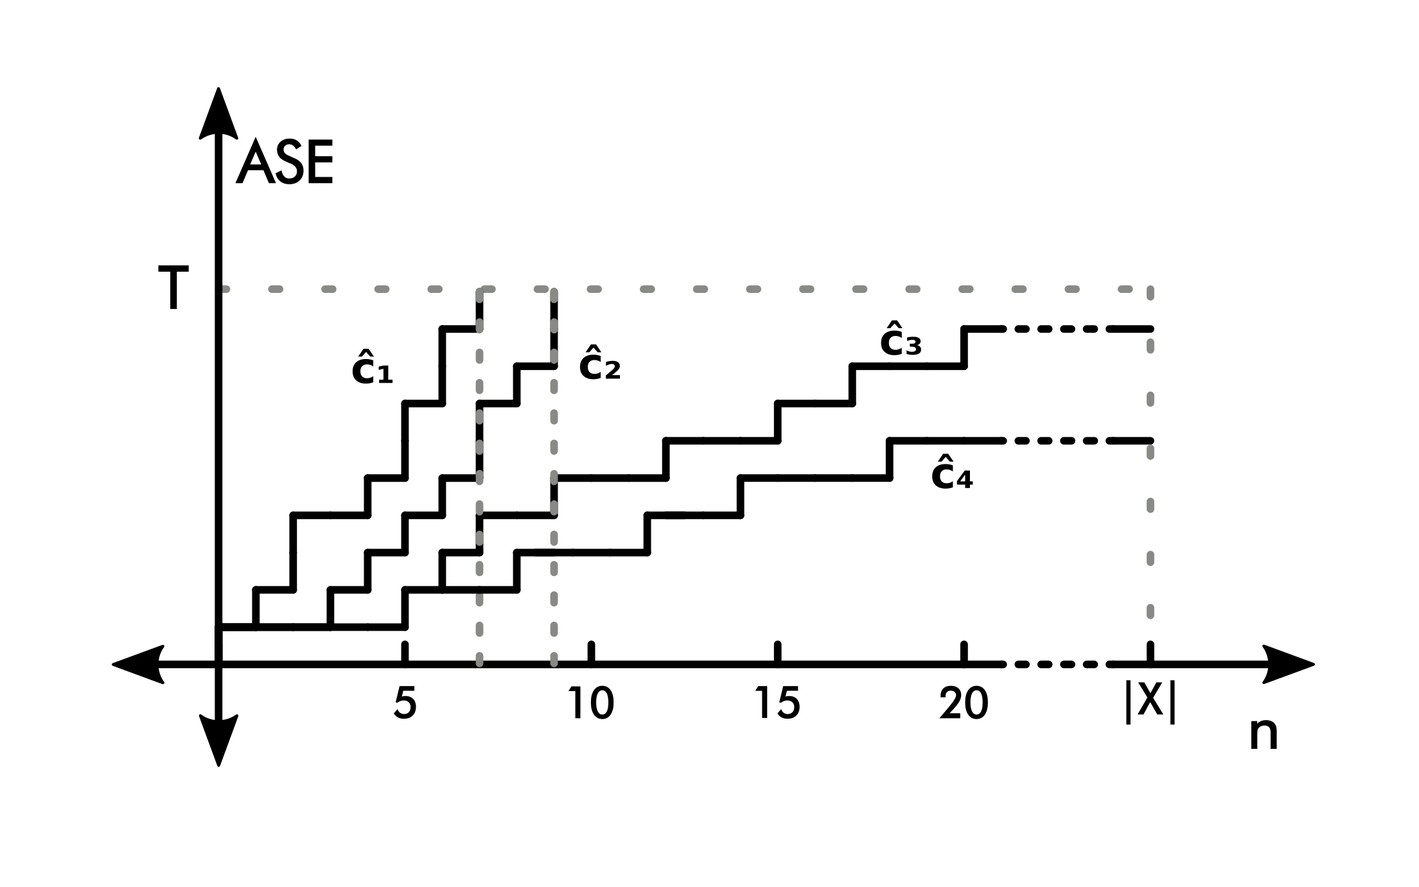
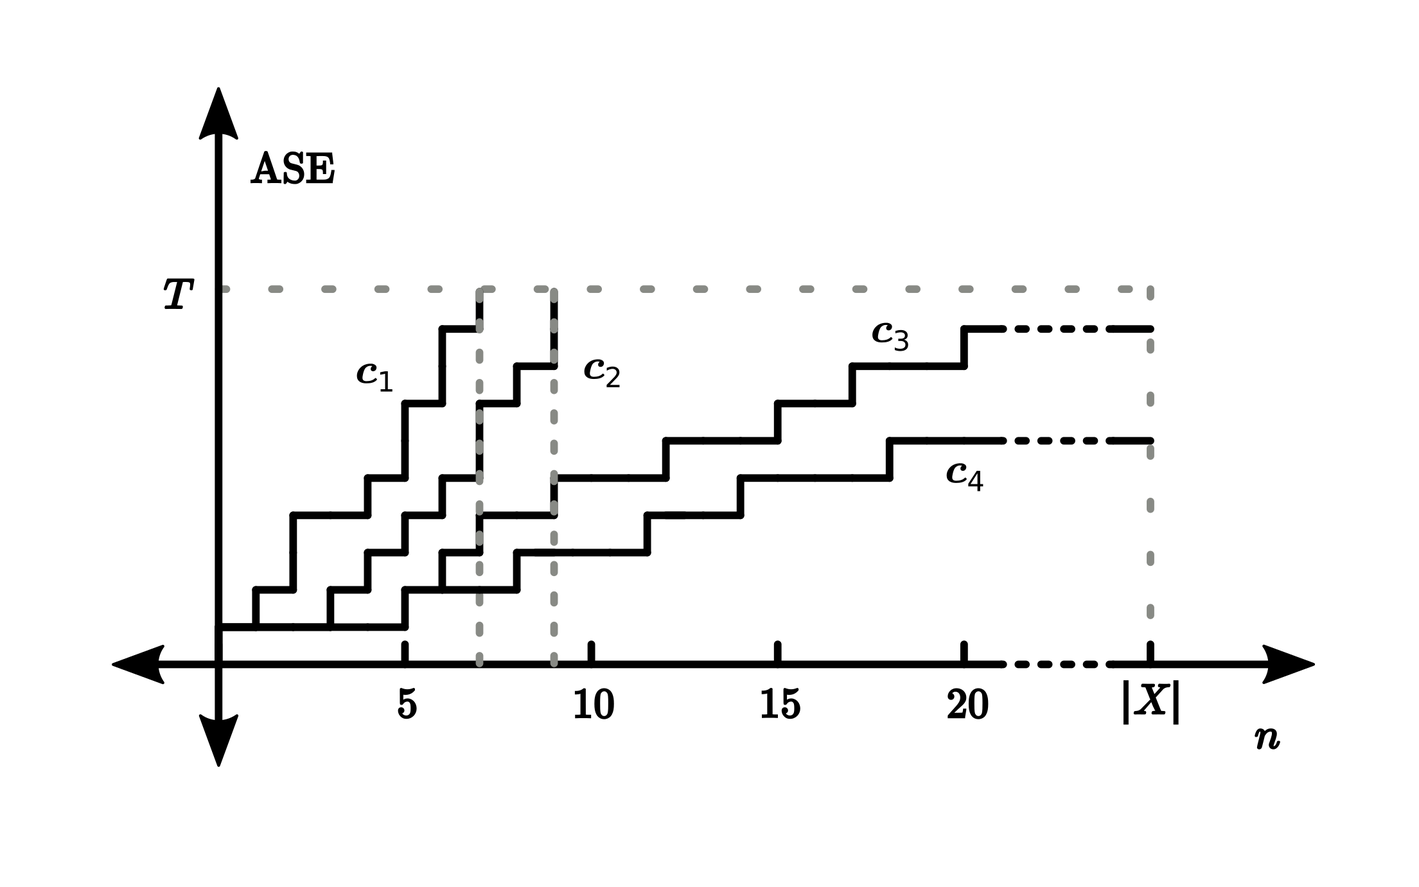
add thesis citations

diff --git a/content/thesis/header.tex b/content/thesis/header.tex
@@ -1,0 +1,22 @@
+\usepackage[letterpaper, margin=1in]{geometry}
+\usepackage{float}
+\usepackage{bm}
+\usepackage{steinmetz}
+\usepackage{xparse,mathtools}
+\usepackage{amsmath}
+\usepackage{setspace}
+\let\origfigure\figure
+\let\endorigfigure\endfigure
+\renewenvironment{figure}[1][2] {
+    \expandafter\origfigure\expandafter[H]
+} {
+    \endorigfigure
+}
+\DeclareMathOperator{\sinc}{sinc}
+\DeclareMathOperator{\rect}{rect}
+\DeclareMathOperator{\cir}{circ}
+\DeclareMathOperator{\jinc}{jinc}
+\DeclareMathOperator{\diag}{diag}
+\DeclareMathOperator{\E}{E}
+
+\doublespacing

diff --git a/content/thesis/intro.md b/content/thesis/intro.md
@@ -31,12 +31,13 @@ In the next section, I highlight some classical and/or popular contemporary imag
 
 ### A Comment on Notation
 
-This document contains many types of variables which can represent transform parameters, placeholder variables inside optimizations, 1D vectors of parameters and 2D images.   I try to follow these guidelines for easier reading:
+This document contains many types of variables which can represent transform parameters, <!-- placeholder variables inside optimizations, --> 1D vectors of parameters and 2D images.   I try to follow these guidelines for easier reading:
 
 * bold for variables which represent 1D vectors.  For example $\bm{x}$ is a coordinate vector representing position within an image
-* subscript 0 for ground truth parameters of $f$.  For example $s_0$ and $\theta_0$ are parameters controlling scaling and rotation
-* hat $\,\hat{}\,$ for placeholder variables in maximization or minimization problems. For example $\hat{\theta}$ may represent the current value under test in an iterative algorithm searching for $\theta_0$
-* superscript $*$ for final parameter estimates obtained by registration methods. For example $\theta^*$ is a best estimate for the true $\theta_0$
+* superscript $*$ for ground truth parameters of $f$.  For example $s^*$ and $\theta^*$ are parameters controlling scaling and rotation
+* hat $\,\hat{}\,$ for algorithmic estimates of ground truth parameters. For example $\hat{\theta}$ may represent the best estimate for $\theta^*$ found by an algorithm
+<!-- * hat $\,\hat{}\,$ for placeholder variables in maximization or minimization problems. For example $\hat{\theta}$ may represent the current value under test in an iterative algorithm searching for $\theta_0$ -->
+<!-- * superscript $*$ for final parameter estimates obtained by registration methods. For example $\theta^*$ is a best estimate for the true $\theta_0$ -->
 
 # Area based Registration
 
@@ -47,57 +48,63 @@ This simplicity can sometimes come at a performance cost in certain situations, 
 ### Correlation-like Methods
 
 ##### Cross Correlation
-The most straightforward of all methods, direct correlation only works when $f$ is a simple linear translation, $f(\bm{x}) = \bm{x} - \bm{c}_0$.
-
-$$
-f^* = \arg \max_{\hat{f} \in F} \frac{\sum_{\bm{x} \in X} i_1(\bm{x})i_2(\hat{f}(\bm{x}))}{\sqrt{\sum_{\bm{x} \in X} i_1(\bm{x})^2}}
-$$
-
-where $F$ is the set of all linear translations.
-
-Stated more simply
-
-$$
-\bm{c}^* = \arg \max_{\hat{\bm{c}}} \frac{\sum_{\bm{x} \in X} i_1(x)i_2(\bm{x} - \hat{\bm{c}})}{\sqrt{\sum_{\bm{x} \in X} i_1(\bm{x})^2}}
-$$
+The most straightforward of all methods, direct correlation, is conceptually simple and works for many classes of transformations.
 
 Note that the normalization here is crucial so that the intensities of $i_1$ and $i_2$ do not influence the maximum.  We call this measure normalized cross correlation (NCC). [^3]
 
-<!-- $$ f^* = \arg \max_{\hat{f}} \sum_x i_1(x)i_2(\hat{f}(x)) = \arg \min_{\hat{f}} \sum_x e(x)^2 $$ --> 
+<!-- only works when $f$ is a simple linear translation, $f(\bm{x}) = \bm{x} - \bm{c}^*$. -->
 
-In practice, cross correlation is still successful in the presence of slight rotation or scaling.
+$$
+\begin{aligned}
+\hat{f} &= \arg \max_{f \in F} \text{NCC}(i_1, i_2(f)) \\
+&= \arg \max_{f \in F} \frac{\sum_{\bm{x} \in X} i_1(\bm{x})i_2(f(\bm{x}))}{\sqrt{\sum_{\bm{x} \in X} i_1(\bm{x})^2}}
+\end{aligned}
+$$
+
+where $F$ is the set of all linear translations.  Practically, the time required to search the space of all possible transformations for a given application makes this approach infeasible, so $F$ is often restricted to translations.
+
+$$
+\hat{c} = \arg \max_{\bm{c}} \frac{\sum_{\bm{x} \in X} i_1(\bm{x})i_2(\bm{x} - \bm{c})}{\sqrt{\sum_{\bm{x} \in X} i_1(\bm{x})^2}}
+$$
+
+
+<!-- $$ f^* = \arg \max_{\hat{f}} \sum_x i_1(x)i_2(\hat{f}(x)) = \arg \min_{\hat{f}} \sum_x e(x)^2 $$ --> 
 
 Related similarity measures which are sometimes used in place of normalized cross correlation are sum of squared error (SSE)
 
 $$
-\sum_{\bm{x} \in X} (i_1(\bm{x}) - i_2(\bm{x} - \hat{\bm{c}}))^2
+\text{SSE}(i_1, i_2(f)) = \sum_{\bm{x} \in X} (i_1(\bm{x}) - i_2(f(\bm{x})))^2
 $$
 
 and correlation coefficient
 
 $$
-\frac{\text{cov}(i_1, i_2)}{\sigma_1 \sigma_2} = \frac{\sum_{\bm{x} \in X} (i_1(\bm{x}) - \mu_1)(i_2(\bm{x} - \hat{\bm{c}}) - \mu_2)}{\sqrt{\sum_{\bm{x} \in X} (i_1(\bm{x}) - \mu_1)^2 \sum_{\bm{x} \in X}(i_2(\bm{x} - \hat{\bm{c}}) - \mu_2)^2}}
+\text{Corr}(i_1, i_2(f)) = \frac{\text{cov}(i_1, i_2(f))}{\sigma_1 \sigma_2} = \frac{\sum_{\bm{x} \in X} (i_1(\bm{x}) - \mu_1)(i_2(f(\bm{x})) - \mu_2)}{\sqrt{\sum_{\bm{x} \in X} (i_1(\bm{x}) - \mu_1)^2 \sum_{\bm{x} \in X}(i_2(f(\bm{x})) - \mu_2)^2}}
 $$
 
-where $\mu_1$ and $\mu_2$ are the means of $i_1$ and $i_2$ in $X$.
+where $\mu_1$, $\mu_2$, $\sigma_1$, $\sigma_2$ are the means and variances of $i_1$ and $i_2$ over $X$.
+
+While cross correlation methods are very old, they continue to see widespread use because of ease of implementation in hardware (NCC can be efficiently implemented using multiply-accumulate hardware) and because limiting $f$ to translations isn't significantly restrictive for many scenarios.
+
+In practice though, cross correlation is still successful in the presence of slight rotation, scaling or even non-affine transformation. <!-- need to find citation -->
 
 ##### Generalized Iterative Cross Correlation
 
 ##### Selective Similary Detection Algorithm (SSDA)
 
-In standard correlation methods, the sum over $X$ for each candidate $\hat{f}$ must be computed in full before a maximum is found.  Barnea, Silverman [^4] propose a class alternative schemes which greatly improve computation time in two ways.  The paper calls these algorithms selective similarity detection algorithms (SSDAs), of which one is presented here.
+In standard correlation methods, the sum over $X$ for each candidate $f$ must be computed in full before a maximum is found.  Barnea, Silverman [^4] propose a class alternative schemes which greatly improve computation time in two ways.  The paper calls these algorithms selective similarity detection algorithms (SSDAs), of which one is presented here.
 
 First, the paper uses absolute sum of errors (ASE) as a similarity measure, which requires no costly multiplications unlike NCC or SSE.
 
 $$
-\sum_{\bm{x} \in X} |i_1(\bm{x}) - i_2(\bm{x} - \hat{\bm{c}})|
+ASE(i_1, i_2(f)) = \sum_{\bm{x} \in X} |i_1(\bm{x}) - i_2(\bm{x} - \bm{c})|
 $$
 
-The second optimization uses early stopping and requires that the above sum over $X$ be implemented sequentially (e.g. as an iterative software loop).  For a particular candidate $\hat{\bm{c}}$, the current value of the in-progress ASE is compared to a threshold parameter after each iteration.  If the ASE surpasses this threshold, the number of iterations is recorded and the algorithm moves on to the next candidate.  If an candidate computation never exceeds $T$, then the final ASE is recorded instead.
+The second optimization uses early stopping and requires that the sum over $X$ be implemented sequentially (e.g. as an iterative software loop).  For a particular candidate $\bm{c}$, the current value of the sum is compared to a threshold parameter after each iteration.  If the ASE surpasses this threshold, the number of iterations is recorded and the algorithm moves on to the next candidate.  If an candidate computation never exceeds $T$, then the final ASE is recorded instead.
 
 Finally, the candidate with the lowest ASE is selected.  If all candidates surpassed the threshold, then the candidate with the most number of iterations before passing the threshold is selected.
 
-![Error accumulation curves for candidates $\hat{\bm{c}}_1$, $\hat{\bm{c}}_2$, $\hat{\bm{c}}_3$ and $\hat{\bm{c}}_4$.  Error computation for $\hat{\bm{c}}_1$ and $\hat{\bm{c}}_2$ terminated early at 7 and 9 iterations.  $\hat{\bm{c}}_4$ is the best estimate for offset, followed by $\hat{\bm{c}}_3$, $\hat{\bm{c}}_2$ and $\hat{\bm{c}}_1$.](ssda.png)
+![Error accumulation curves for candidates $\bm{c}_1$, $\bm{c}_2$, $\bm{c}_3$ and $\bm{c}_4$.  Error computation for $\bm{c}_1$ and $\bm{c}_2$ terminated early at 7 and 9 iterations.  $\bm{c}_4$ is the best estimate for offset, followed by $\bm{c}_3$, $\bm{c}_2$ and $\bm{c}_1$.](ssda.png)
 
 This algorithm offers potentially orders of magnitude speed improvements over direct cross-correlation because of early stopping, but requires selection of parameter $T$.  A choice of $T$ too high limits efficiency gains while a choice of $T$ too low can lead to suboptimal results.
 
@@ -113,19 +120,19 @@ Phase correlation was originally proposed for registering linearly translated im
 Computing the cross-power spectral density (CPSD) we can directly obtain this complex exponential.
 
 $$
-i_2(\bm{x}) = i_1(\bm{x} - \bm{c}_0)
+i_2(\bm{x}) = i_1(\bm{x} - \bm{c}^*)
 $$
 
 $$
 CPSD(i_1, i_2)(\bm{\omega}) = \frac{I_1(\bm{\omega}) \overline{I_2(\bm{\omega})}}{|I_1(\bm{\omega}) \overline{I_2(\bm{\omega})}|} =
-\frac{I_1(\bm{\omega}) \overline{I_1(\bm{\omega}) e^{-j \langle \bm{\omega}, \bm{c}_0 \rangle}}}{|I_1(\bm{\omega}) \overline{I_1(\bm{\omega}) e^{-j \langle \bm{\omega}, \bm{c}_0 \rangle}}|} = e^{j \langle \bm{\omega},  \bm{c}_0 \rangle}
+\frac{I_1(\bm{\omega}) \overline{I_1(\bm{\omega}) e^{-j \langle \bm{\omega}, \bm{c}^* \rangle}}}{|I_1(\bm{\omega}) \overline{I_1(\bm{\omega}) e^{-j \langle \bm{\omega}, \bm{c}^* \rangle}}|} = e^{j \langle \bm{\omega},  \bm{c}^* \rangle}
 $$
 
 Where $I_1$ and $I_2$ are the Fourier transforms of $i_1$ and $i_2$.  The final estimate for $\bm{c}_0$ is obtained by a final inverse Fourier transform of the CPSD, yielding a delta at location $\bm{c}_0$.
 
 $$
-PC(i_1, i_2)(\bm{x}) = \mathcal{F}^{-1}\left[ CPSD(i_1, i_2) \right](\bm{x}) = \delta(\bm{x} - \bm{c}_0) \\
-\bm{c}^* = \arg \max_{\bm{x}} PC(i_1, i_2)(\bm{x})
+PC(i_1, i_2)(\bm{x}) = \mathcal{F}^{-1}\left[ CPSD(i_1, i_2) \right](\bm{x}) = \delta(\bm{x} - \bm{c}^*) \\
+\hat{c} = \arg \max_{\bm{x}} PC(i_1, i_2)(\bm{x})
 $$
 
 An important consideration here is that the Fourier Shift theorem only holds exactly when translation is circular.  In practice, the phase correlation method still works if the region of overlap is sufficiently large.  Foroosh, Zerubia, Berthod [^7] propose a prefilter which can be applied to both images before phase correlation to reduce these effects.
@@ -137,21 +144,21 @@ De Castro, Morandi [^5] introduced an extension of the phase correlation method 
 Let $i_2$ be a translated and rotated copy of $i_1$.  Then
 
 $$
-i_2(\bm{x}) = i_1(R_0 (\bm{x} - \bm{c_0}))
+i_2(\bm{x}) = i_1(R_{\theta^*} (\bm{x} - \bm{c^*}))
 $$
 
 where 
 
 $$
-R_0 = \begin{bmatrix} \cos \theta_0 & - \sin \theta_0 \\ \sin \theta_0 & \cos \theta_0 \end{bmatrix}
+R_{\theta^*} = \begin{bmatrix} \cos \theta^* & - \sin \theta^* \\ \sin \theta^* & \cos \theta^* \end{bmatrix}
 $$
 
-is a rotation operator of angle $\theta_0$.
+is a rotation operator of angle $\theta^*$.
 
-From the Fourier shift theorem, we know that a shift by $\bm{c}_0$ in the spatial domain results in a multiplication by a complex exponential in the frequency domain.  Additionally, the Fourier rotation theorem tells us that a rotation in the spatial domain is a rotation by the same angle in the frequency domain.  Therefore, the relation between $I_1$ and $I_2$ can be written
+From the Fourier shift theorem, we know that a shift by $\bm{c}^*$ in the spatial domain results in a multiplication by a complex exponential in the frequency domain.  Additionally, the Fourier rotation theorem tells us that a rotation in the spatial domain is a rotation by the same angle in the frequency domain.  Therefore, the relation between $I_1$ and $I_2$ can be written
 
 $$
-I_2(\bm{\omega}) = e^{-j \langle \bm{\omega}, \bm{c}_0 \rangle} I_1(R_0 \bm{\omega})
+I_2(\bm{\omega}) = e^{-j \langle \bm{\omega}, \bm{c}^* \rangle} I_1(R_{\theta^*} \bm{\omega})
 $$
 
 <!-- $$ -->
@@ -160,26 +167,26 @@ $$
 <!-- \frac{I_1(\omega) \overline{I_1(R_{\theta - \hat{\theta}} \omega)}}{|I_1(\omega) \overline{I_1(R_{\theta - \hat{\theta}} \omega)}|} = -->
 <!-- $$ -->
 
-To find $\theta_0$, the authors consider the expression
+To find $\theta^*$, the authors consider the expression
 
 $$
-\mathcal{F}^{-1} \left[ \frac{I_2(\bm{\omega})}{I_1(R_{\hat{\theta}} \bm{\omega})} \right]
+\mathcal{F}^{-1} \left[ \frac{I_2(\bm{\omega})}{I_1(R_{\theta} \bm{\omega})} \right]
 $$
 
-When $\hat{\theta} = \theta_0$, we get
+When $\theta = \theta^*$, we get
 
 $$
-\mathcal{F}^{-1} \left[ \frac{I_2(\bm{\omega})}{I_1(R_{\hat{\theta}} \bm{\omega})} \right] =
-\mathcal{F}^{-1} \left[ \frac{e^{-j \langle \bm{\omega}, \bm{c}_0 \rangle}I_1(R_0\bm{\omega})}{I_1(R_0 \bm{\omega})} \right]  = \mathcal{F}^{-1} \left[ e^{-j \langle \bm{\omega}, \bm{c}_0 \rangle} \right] = \delta(\bm{x} - \bm{c}_0)
+\mathcal{F}^{-1} \left[ \frac{I_2(\bm{\omega})}{I_1(R_{\theta} \bm{\omega})} \right] =
+\mathcal{F}^{-1} \left[ \frac{e^{-j \langle \bm{\omega}, \bm{c}^* \rangle}I_1(R_{\theta^*}\bm{\omega})}{I_1(R_{\theta^*} \bm{\omega})} \right]  = \mathcal{F}^{-1} \left[ e^{-j \langle \bm{\omega}, \bm{c}^* \rangle} \right] = \delta(\bm{x} - \bm{c}^*)
 $$
 
-By testing a range of values for $\hat{\theta}$ for which results in the closest to an impulse in the above expression, an approximate for the true $\theta_0$ can be found.
+By testing a range of values for $\theta$ for which results in the closest to an impulse in the above expression, an approximate for the true $\theta^*$ can be found.
 
 Formally, this is the minimization problem
 
 $$
-\theta^* = \arg \min_{\hat{\theta}} \left\Vert \mathcal{F}^{-1} \left[ 
-\frac{I_2(\bm{\omega})}{I_1(R_{\hat{\theta}}\bm{\omega})}
+\hat{\theta} = \arg \min_{\theta} \left\Vert \mathcal{F}^{-1} \left[ 
+\frac{I_2(\bm{\omega})}{I_1(R_{\theta}\bm{\omega})}
 \right] \right\Vert_N
 $$
 
@@ -189,13 +196,13 @@ $$
 \left\Vert f \right\Vert_N = \left\Vert f - \delta(\bm{x} - \arg \max_{\hat{\bm{x}}} f(\hat{\bm{x}})) \right\Vert_2
 $$
 
-When $\theta^*$ has been found, the offset can be obtained directly from the impulse function
+When $\hat{\theta}$ has been found, the offset can be obtained directly from the impulse function
 
 $$
-\bm{c}^* = \arg \max_\bm{x} \mathcal{F}^{-1} \left[ \frac{I_2(\bm{\omega})}{I_1(R_{\theta^*} \bm{\omega})} \right](\bm{x})
+\hat{\bm{c}} = \arg \max_\bm{x} \mathcal{F}^{-1} \left[ \frac{I_2(\bm{\omega})}{I_1(R_{\hat{\theta}} \bm{\omega})} \right](\bm{x})
 $$
 
-An important note here is that the denominator $I_1(R_{\theta^*} \bm{\omega})$ must be evaluated using interpolation, as $R_{\theta^*} \bm{\omega}$ will not coincide with the sample nodes of $I_1$ in general.
+Note that the denominator $I_1(R_{\hat{\theta}} \bm{\omega})$ must be evaluated using interpolation, as $R_{\hat{\theta}} \bm{\omega}$ will not coincide with the sample nodes of $I_1$ in general.
 
 <!-- FIXME author somehow use window to eliminate edge effects? -->
 
@@ -208,7 +215,7 @@ An important note here is that the denominator $I_1(R_{\theta^*} \bm{\omega})$ m
 Phase correlation in its original form is an elegant method of registering translated images.  The method introduced by De Castro and Morandi provides a way to detect and correct for rotation in images before applying phase correlation.  However, another common transformation in imaging systems is scaling, which can occur when the target scene moves closer to the imaging device or if the imager has zoom capabilities.  Like rotation, scaling by a factor $s_0$ can also be written as a matrix operator like so
 
 $$
-S_{s_0} = \begin{bmatrix}s_0 & 0 \\ 0 & s_0\end{bmatrix}
+S_{s^*} = \begin{bmatrix}s^* & 0 \\ 0 & s^*\end{bmatrix}
 $$
 
 Sarvaiya, Patnaik, Kothari [^8] introduced a new method which is capable of registering images that have been translated, rotated and scaled.  They make use of the Fourier scale, Fourier shift and Fourier rotation properties and also the Log-Polar transform (also known as Fourier-Mellin transform), where rotation and scaling in the original domain manifest as translation in the Log-Polar domain.  Their approach is broken into two applications of the phase correlation method, where the first application is used to recover scale and rotation, and the second, translation.
@@ -216,20 +223,20 @@ Sarvaiya, Patnaik, Kothari [^8] introduced a new method which is capable of regi
 If $i_2$ is a scaled, rotated and shifted copy of $i_1$,
 
 $$
-i_2(\bm{x}) = i_1(R_0 S_{s_0} \bm{x} - \bm{c}_0)
+i_2(\bm{x}) = i_1(R_{\theta^*} S_{s^*} \bm{x} - \bm{c}_0)
 $$
 
 $$
 \begin{aligned}
 &PC \left( \left| \mathcal{LP} \left[ \mathcal{F} \left[ i_1 \right] \right] \right| , \left| \mathcal{LP} \left[ \mathcal{F} \left[ i_2 \right]\right] \right| \right)(x, y) \\
-= &PC \left( \left| \mathcal{LP} \left[ \mathcal{F} \left[ i_1 \right] \right] \right| , \left| \mathcal{LP} \left[ \mathcal{F} \left[ i_1(R_0 S_{s_0} \bm{x} - \bm{c}_0) \right] \right] \right| \right)(x, y)  \\
+= &PC \left( \left| \mathcal{LP} \left[ \mathcal{F} \left[ i_1 \right] \right] \right| , \left| \mathcal{LP} \left[ \mathcal{F} \left[ i_1(R_{\theta^*} S_{s^*} \bm{x} - \bm{c}_0) \right] \right] \right| \right)(x, y)  \\
 &\text{Apply Fourier shift, scale, rotation properties} \\
-= &PC \left( \left| \mathcal{LP} \left[ I_1(\bm{\omega}) \right] \right| , \left| \mathcal{LP} \left[ \frac{1}{s_0^2} e^{-j \langle S_{s_0}^{-1} R_0 \bm{\omega}, \bm{c}_0 \rangle} I_1(S_{s_0}^{-1} R_0 \bm{\omega}) \right] \right| \right)(x, y) \\
-= &PC \left( \left| \mathcal{LP} \left[ I_1(\bm{\omega}) \right] \right| , \left| \mathcal{LP} \left[ \frac{1}{s_0^2} e^{-j \langle S_{s_0}^{-1} R_0 \bm{\omega}, \bm{c}_0 \rangle} \right] \mathcal{LP} \left[ I_1(S_{s_0}^{-1} R_0 \bm{\omega}) \right] \right| \right)(x, y) \\
+= &PC \left( \left| \mathcal{LP} \left[ I_1(\bm{\omega}) \right] \right| , \left| \mathcal{LP} \left[ \frac{1}{s^{*2}} e^{-j \langle S_{s^*}^{-1} R_{\theta^*} \bm{\omega}, \bm{c}_0 \rangle} I_1(S_{s^*}^{-1} R_{\theta^*} \bm{\omega}) \right] \right| \right)(x, y) \\
+= &PC \left( \left| \mathcal{LP} \left[ I_1(\bm{\omega}) \right] \right| , \left| \mathcal{LP} \left[ \frac{1}{s^{*2}} e^{-j \langle S_{s^*}^{-1} R_{\theta^*} \bm{\omega}, \bm{c}_0 \rangle} \right] \mathcal{LP} \left[ I_1(S_{s^*}^{-1} R_{\theta^*} \bm{\omega}) \right] \right| \right)(x, y) \\
 &\text{Apply Log-Polar shift property} \\
-= &PC \left( \left| \mathcal{LP} \left[ I_1 \right](\rho, \theta) \right| , \left| \mathcal{LP} \left[ \frac{1}{s_0^2} e^{-j \langle S_{s_0}^{-1} R_0 \bm{\omega}, \bm{c}_0 \rangle} \right] \mathcal{LP} \left[ I_1 \right](\rho + \ln \frac{1}{s_0}, \theta + \theta_0) \right| \right)(x, y) \\
-= &PC \left( \left| \mathcal{LP} \left[ I_1 \right](\rho, \theta) \right| , \left| \mathcal{LP} \left[ I_1 \right](\rho + \ln \frac{1}{s_0}, \theta + \theta_0) \right| \right)(x, y) \\
-= &\delta \left(x - \ln \frac{1}{s_0}, y - \theta_0 \right)
+= &PC \left( \left| \mathcal{LP} \left[ I_1 \right](\rho, \theta) \right| , \left| \mathcal{LP} \left[ \frac{1}{s^{*2}} e^{-j \langle S_{s^*}^{-1} R_{\theta^*} \bm{\omega}, \bm{c}_0 \rangle} \right] \mathcal{LP} \left[ I_1 \right](\rho + \ln \frac{1}{s^*}, \theta + \theta_0) \right| \right)(x, y) \\
+= &PC \left( \left| \mathcal{LP} \left[ I_1 \right](\rho, \theta) \right| , \left| \mathcal{LP} \left[ I_1 \right](\rho + \ln \frac{1}{s^*}, \theta + \theta_0) \right| \right)(x, y) \\
+= &\delta \left(x - \ln \frac{1}{s^*}, y - \theta_0 \right)
 \end{aligned}
 $$
 
@@ -282,22 +289,22 @@ The joint histogram changes with the alignment of the images.  For a correctly a
 Formally, the joint Shannon entropy for a pair of registered images
 
 $$
-H(i_1, \hat{i_2}) = -\sum_{m, n} p(m, n) \log p(m, n)
+H(i_1, i_2(f)) = -\sum_{m, n} p(m, n) \log p(m, n)
 $$
 
-where $p(i, j)$ is the joint histogram of $i_1$ and candidate registered $\hat{i_2}$ in the region of overlap $X$. <!-- FIXME -->
+where $p(i, j)$ is the joint histogram of $i_1$ and candidate registered $i_2(f)$ in the region of overlap $X$. <!-- FIXME -->
 
 However, a problem that can occur when joint entropy is used directly is that low entropy (high degree of reported alignment) can occur for invalid registrations if the images contain large regions of uniform intensity.  For example, if the images in the figure above are aligned so that only their corners containing background overlap, the joint histogram will have approximately a single peak and the joint entropy will be very low.  To account for this, one can make use of the marginal entropies to penalize alignments where the region $X$ contains little information in the images.  This is known as mutual information.
 
 $$
-MI(i_1, \hat{i_2}) = H(i_1) + H(\hat{i_2}) - H(i_1, \hat{i_2})
+MI(i_1, i_2(f)) = H(i_1) + H(i_2(f)) - H(i_1, i_2(f))
 $$
 
-With this new measure, if the overlap region contains little information, terms $H(i_1)$ and $H(\hat{i_2})$ will be small and counteract joint entropy.  Also note that since mutual information contains $-H(i_1, \hat{i_2})$, minimizing joint entropy is related to maximizing mutual information.
+With this new measure, if the overlap region contains little information, terms $H(i_1)$ and $H(i_2(f))$ will be small and counteract joint entropy.  Also note that since mutual information contains $-H(i_1, i_2(f))$, minimizing joint entropy is related to maximizing mutual information.
 
 ### Optimization Based Methods
 
-Many of the above methods introduce various similarity metrics as measures of alignment between registration candidates.  They mostly rely on an exhaustive search through all potential registration candidates and as such are restricted to situations where the set of all possible $\hat{f}$ candidates are small, usually simple translation.  In situations where the number of parameters controlling $f$ is large, such as elastic transformation, it is appropriate to make use optimization methods that can find minima or maxima in the chosen similarity measure in a feasible amount of time.
+Many of the above methods introduce various similarity metrics as measures of alignment between registration candidates.  They mostly rely on an exhaustive search through all potential registration candidates and as such are restricted to situations where the set of all possible $f$ candidates are small, usually simple translation.  In situations where the number of parameters controlling $f$ is large, such as elastic transformation, it is appropriate to make use optimization methods that can find minima or maxima in the chosen similarity measure in a feasible amount of time.
 
 ##### NMSRE Conjugate Descent
 
@@ -339,18 +346,28 @@ With this partial derivative (and a similar for $y_0$) we can use standard conju
 
 # Feature Based Registration
 
+Feature based methods involve a preprocessing step known as *feature detection*, where notable structures in both images are located and recorded.  Detected structures come in a variety of forms, such as polygons (forests, lakes, fields), line segments (roads, buildings), or single points (street intersections, region corners).  There are many algorithms capable of extracting these features and the optimal choice of algorithm is highly dependent on the target scene.  In general, a desirable property of these algorithms is that the same features can be detected in both images and that these features are robust against corruption introduced by function $g$ or noise. [^2]
+
+In the next stage, *feature matching*, detected features are corresponded from both images.
+
+##### Harris Corner Detection and RANSAC
+
 # Summary
 
 Area based methods are preferred when images have salient details and information is provided by pixel intensities rather than shapes and structures in the imae.  The images' intensities must be similar or at least statistically related.  The set of candidate transformations $f$ that can be searched is generally limited to translation with small amounts of rotation or skew, but there are some extensions to methods that support large rotations or skews so long as the degrees of freedom of $f$ remains small.  Pyramid search techniques and sophisticated optimization strategies are available to more quickly find extrema of the similarity measure.
 
 Feature based methods are generally utilized when shapes in structures in the image pair contain more alignment information than the pixel intensities, such as between a picture of an object and a computer model of an object.  The drawback of these methods is that such features can be hard to detect and match with each other.  It is critical that chosen feature detector be robust against any differences between the images.
 
+| Method | Application |   |
+|--------|-------------|---|
+| foo    |             |   |
+|        |             |   |
 
 
 # References
 - [A Survey of Mutual Information Based Registration](https://www.google.com/search?q=survey%20of%20mutual%20information%20based%20registration) - Pluim, Maintz, Viergever 2003
 
-[^1]: Motion Estimation Konrad
+[^1]: Motion Estimation - Konrad
 
 [^2]: [Image registration methods: a survey](https://www.sciencedirect.com/science/article/pii/S0262885603001379/pdfft?md5=9ac6884a88ac624d4861de8fe7666e27&pid=1-s2.0-S0262885603001379-main.pdf) - Zitova, Flusser 2003
 
@@ -365,3 +382,7 @@ Feature based methods are generally utilized when shapes in structures in the im
 [^7]: [Foroosh, Zerubia, Berthod 2002](https://ieeexplore.ieee.org/document/988953)
 
 [^8]: [Sarvaiya, Patnaik, Kothari 2012](http://www.jprr.org/index.php/jprr/article/view/355)
+
+[^9]: Feature-Based Deformable Image Registration with RANSAC Based Search Correspondence - Colleu, Shen, Matuszewski, Shark, Cariou
+
+[^10]: An Automatic Satellite Image Registration Technique Based on Harris Corner Detection and Random Sample Consensus (RANSAC) Outlier Rejection Model - Misra, Moorthi, Dhar, Ramakrishnan
